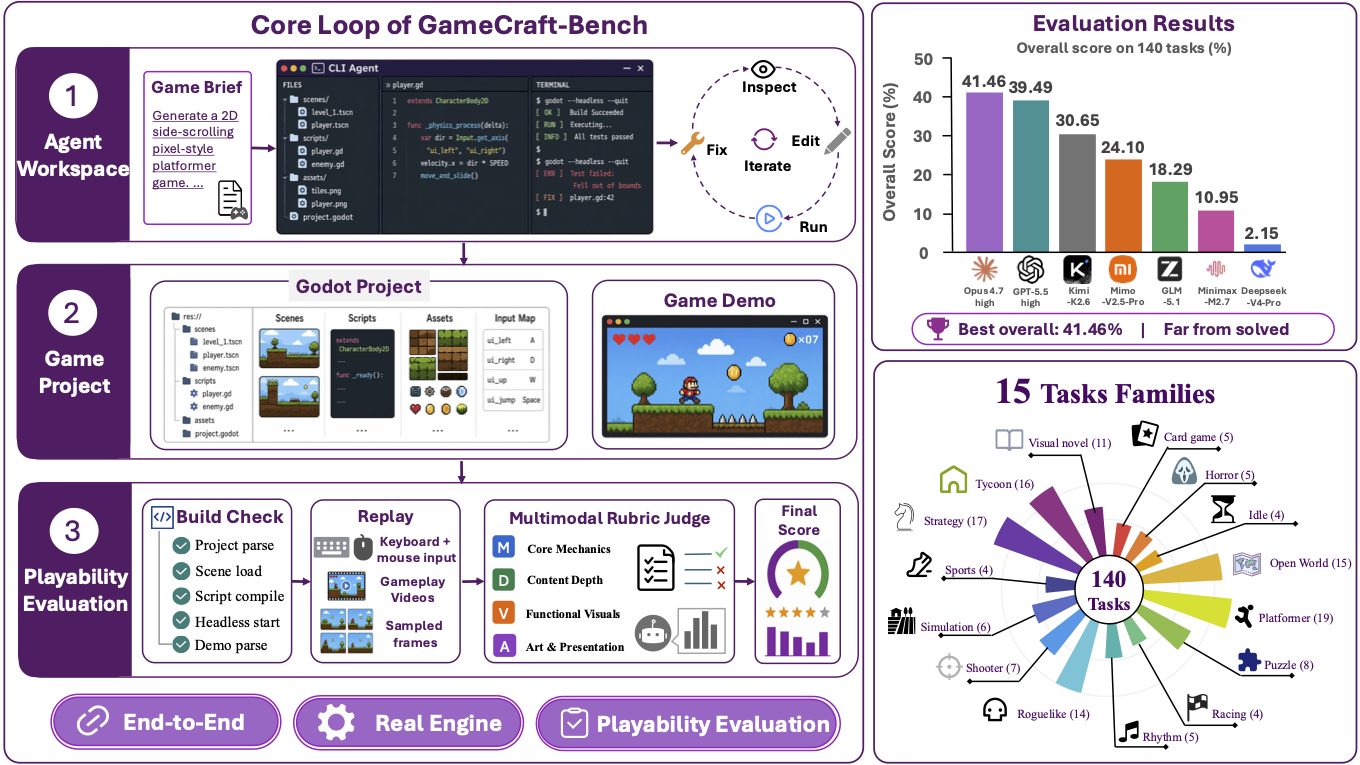
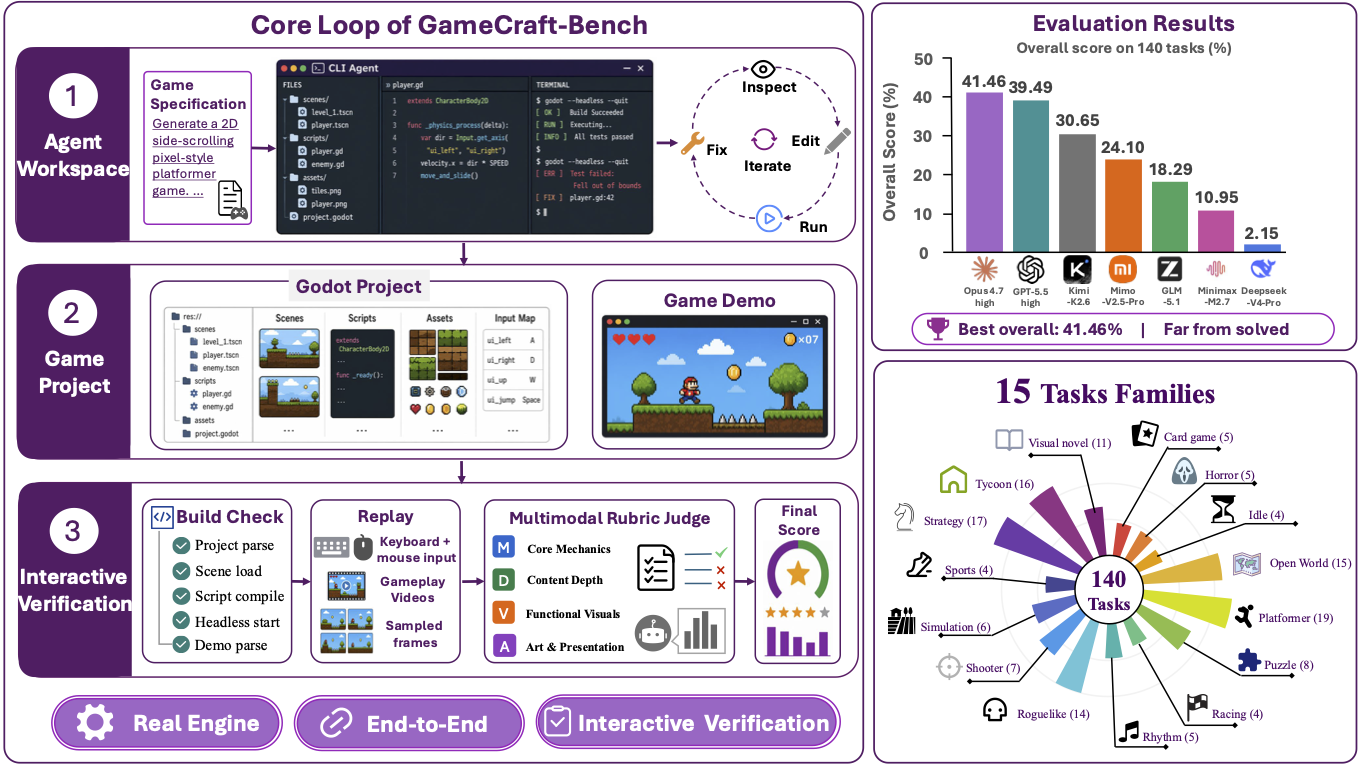
update

Changed region(s): [[0.0309, 0.902, 0.6176, 0.9922], [0.0926, 0.0902, 0.1853, 0.2706], [0.0, 0.7216, 0.0926, 0.8118]]

diff --git a/index.html b/index.html
@@ -107,11 +107,12 @@
       <div class="container narrow">
         <h1>GameCraft-Bench</h1>
         <p>
-          GameCraft-Bench asks a coding agent to turn a product-style game brief
-          into a complete, playable Godot 4 project. Each submission includes a
-          game project and replayable input traces. The verifier launches the
-          game, replays the traces, records gameplay videos, samples visual
-          evidence, and scores observed play with a hidden task rubric.
+          GameCraft-Bench evaluates whether coding agents can transform
+          natural-language game specifications into complete, playable Godot
+          projects. Each submission includes a game artifact and replayable
+          interaction traces; the verifier launches the game, replays the
+          traces, records gameplay evidence, and scores observed play with a
+          hidden task rubric.
         </p>
         <div class="stats" aria-label="Benchmark statistics">
           <div><strong>140</strong><span>Tasks</span></div>
@@ -126,33 +127,32 @@
       <div class="container narrow">
         <h2>Abstract</h2>
         <p>
-          Game development is an important application for coding agents, where
-          a user specifies an interactive experience and the agent must turn
-          that intent into a working game artifact. This setting is challenging
-          because game development happens inside an engine, where scripts,
-          scene graphs, assets, input maps, rendering, visual feedback, and
-          runtime configuration must work together as an executable interactive
-          system, rather than merely producing compilable code.
+          Game generation is an emerging application of coding agents,
+          requiring models to transform natural-language specifications into
+          playable interactive systems. Unlike traditional coding tasks, game
+          generation takes place within a game engine, where scripts, scenes,
+          assets, rendering, and runtime interactions must jointly produce
+          coherent gameplay.
         </p>
         <p>
           Evaluating this setting requires three desiderata:
-          <strong>Desideratum I: Environment Fidelity</strong>,
-          <strong>Desideratum II: Artifact Integrity</strong>, and
-          <strong>Desideratum III: Interaction Validity</strong>. Existing
-          game-generation benchmarks cover parts of this space but do not
-          jointly satisfy all three. GameCraft-Bench is an end-to-end benchmark
-          for 2D game development in Godot, containing 140 tasks across 15 game
-          families.
+          <strong>Desideratum I: Engine Grounding</strong>,
+          <strong>Desideratum II: Artifact Completeness</strong>, and
+          <strong>Desideratum III: Interactive Verification</strong>. Existing
+          game-generation benchmarks cover parts of this contract, but leave
+          open whether agents can carry user intent all the way to a complete
+          engine-native game artifact whose behavior is judged through
+          interaction.
         </p>
         <p>
-          For each task, an agent receives a game brief, shared asset libraries,
-          and a fixed workspace, then must produce a complete Godot project and
-          replayable demonstration traces. The verifier launches the project,
-          replays the traces, records gameplay evidence, and scores observed
-          play across core mechanics, content depth, functional visuals, and art
-          and presentation. Evaluation of frontier coding agents shows that
-          end-to-end game development remains highly challenging: even the
-          strongest agent scores only 41.46%, and most agents score below 40.00%.
+          GameCraft-Bench instantiates this framework with 140 Godot tasks
+          across 15 game families. For each task, an agent receives a game
+          specification and must produce a complete Godot project plus
+          replayable demonstration traces. The verifier replays the traces and
+          scores observed play across core mechanics, content depth, functional
+          visuals, and art and presentation. Frontier coding agents remain far
+          from reliable end-to-end game generation: the strongest configuration
+          reaches only 41.46%, and most agents score below 40%.
         </p>
       </div>
     </section>
@@ -162,9 +162,10 @@
         <figure class="paper-figure">
           <img src="static/figures/overview.png" alt="Overview of GameCraft-Bench">
           <figcaption>
-            Overview of GameCraft-Bench: agents turn game briefs into Godot
-            projects, submit replayable traces, and are evaluated through
-            recorded gameplay evidence in a real engine.
+            Overview of GameCraft-Bench: agents turn natural-language game
+            specifications into complete Godot projects, the verifier replays
+            submitted interaction traces, and rubric-guided judging scores
+            gameplay evidence.
           </figcaption>
         </figure>
       </div>
@@ -175,25 +176,25 @@
         <div class="section-heading">
           <h2>Benchmark Design</h2>
           <p>
-            GameCraft-Bench is organized around three evaluation desiderata,
-            compared against prior benchmarks, and instantiated as a 140-task
-            Godot suite spanning 15 game families.
+            GameCraft-Bench is organized around three desiderata for end-to-end
+            game generation, compared against prior benchmarks, and
+            instantiated as a 140-task Godot suite spanning 15 game families.
           </p>
         </div>
 
         <h3 class="subsection-title">Desiderata</h3>
         <div class="property-grid">
           <article>
-            <h3>Environment Fidelity</h3>
-            <p>The benchmark should preserve the constraints of real game-engine development.</p>
+            <h3>Engine Grounding</h3>
+            <p>Games should be evaluated within a concrete game generation and runtime environment.</p>
           </article>
           <article>
-            <h3>Artifact Integrity</h3>
-            <p>The benchmark should evaluate complete launchable game artifacts rather than isolated components.</p>
+            <h3>Artifact Completeness</h3>
+            <p>Games should be evaluated as complete launchable artifacts rather than isolated components.</p>
           </article>
           <article>
-            <h3>Interaction Validity</h3>
-            <p>The benchmark should judge games through interaction rather than static inspection.</p>
+            <h3>Interactive Verification</h3>
+            <p>Games should be judged by observed behavior when they are played interactively.</p>
           </article>
         </div>
 
@@ -203,37 +204,48 @@
             <thead>
               <tr>
                 <th>Benchmark</th>
-                <th>Environment<br>Fidelity</th>
-                <th>Artifact<br>Integrity</th>
-                <th>Interaction<br>Validity</th>
+                <th>Engine<br>Grounding</th>
+                <th>Artifact<br>Completeness</th>
+                <th>Interactive<br>Verification</th>
               </tr>
             </thead>
             <tbody>
               <tr>
                 <td>GameDevBench</td>
-                <td class="yes">&check;</td>
+                <td>Godot</td>
                 <td class="no">&times;</td>
                 <td class="no">&times;</td>
               </tr>
               <tr>
                 <td>OpenGame-Bench</td>
-                <td class="no">&times;</td>
+                <td>Web</td>
                 <td class="yes">&check;</td>
                 <td class="no">&times;</td>
               </tr>
+              <tr>
+                <td>WebGameBench*</td>
+                <td>Web</td>
+                <td class="yes">&check;</td>
+                <td class="yes">&check;</td>
+              </tr>
               <tr class="ours">
                 <td>GameCraft-Bench</td>
-                <td class="yes">&check;</td>
+                <td><strong>Godot</strong></td>
                 <td class="yes">&check;</td>
                 <td class="yes">&check;</td>
               </tr>
             </tbody>
           </table>
         </div>
+        <p class="design-copy">
+          *WebGameBench is concurrent with our work: it evaluates delivered Web
+          games, while GameCraft-Bench targets complete projects in a dedicated
+          game engine.
+        </p>
 
         <h3 class="subsection-title">Task Suite</h3>
         <p class="design-copy">
-          The benchmark spans diverse 2D game-construction demands, from
+          The benchmark spans diverse 2D game-generation demands, from
           continuous control and collision to rule systems, progression,
           exploration, and presentation-heavy interaction. Counts exclude the
           example task.
@@ -265,14 +277,16 @@
           <article>
             <h2>Evaluation Protocol</h2>
             <p>
-              GameCraft-Bench operationalizes interaction validity by turning
-              open-ended game submissions into standardized gameplay evidence
-              and rubric scores.
+              GameCraft-Bench operationalizes Interactive Verification by
+              turning open-ended game submissions into replayed gameplay
+              evidence and rubric-guided multimodal judging.
             </p>
             <ol class="pipeline">
-              <li>Separate construction intent from measurement targets.</li>
-              <li>Standardize behavioral evidence through replay.</li>
-              <li>Score evidence with rubric categories and item semantics.</li>
+              <li>Package task, environment, and hidden rubric.</li>
+              <li>Collect project and replayable traces.</li>
+              <li>Gate scoring on launchability.</li>
+              <li>Replay traces into gameplay evidence.</li>
+              <li>Score evidence with rubric item semantics.</li>
             </ol>
           </article>
           <div class="rubric-grid">
@@ -297,10 +311,10 @@
         <figure class="paper-figure">
           <img src="static/figures/verify_pipeline.png" alt="Playability verification pipeline">
           <figcaption>
-            Interaction-validity pipeline: the verifier checks launchability,
-            replays submitted traces, records gameplay videos, samples frames,
-            scores each demo with the hidden rubric, and aggregates category
-            scores into the final score.
+            End-to-end evaluation pipeline: the verifier checks launchability,
+            replays submitted traces into gameplay videos and sampled frames,
+            scores the resulting evidence with a hidden rubric, and aggregates
+            category scores into the final score.
           </figcaption>
         </figure>
       </div>
@@ -407,7 +421,7 @@
         <p class="note">
           The strongest configuration reaches only 41.46%, indicating that
           even frontier coding agents remain far from reliable end-to-end game
-          development in a real engine.
+          generation in a real engine.
         </p>
       </div>
     </section>
@@ -420,7 +434,7 @@
         <div class="finding-grid">
           <article>
             <h3>Recognizable mechanics are easier than complete games.</h3>
-            <p>Agents more often implement recognizable mechanics than complete games: content depth, visual readability, and presentation remain the main bottlenecks.</p>
+            <p>Agents more often produce recognizable local mechanics, but still fail to assemble them into complete, coherent interactive systems.</p>
           </article>
           <article>
             <h3>Judge results are stable but not bias-free.</h3>
@@ -435,7 +449,7 @@
             <p>Execution effort alone does not predict playable quality; agents must close the full build--replay--evaluation loop.</p>
           </article>
           <article>
-            <h3>Game-development ability is not monolithic.</h3>
+            <h3>Game generation ability is not monolithic.</h3>
             <p>Mechanics, content, visual feedback, and presentation are only partially coupled across generated games.</p>
           </article>
         </div>
@@ -1274,6 +1288,16 @@
       <div class="container narrow">
         <h2>Acknowledgement</h2>
         <p>
+          This work was supported by Major Frontier Exploration Program (Grant
+          No. C10120250085) from the Shenzhen Medical Academy of Research and
+          Translation (SMART), Shenzhen Medical Research Fund (B2503005), NSFC
+          grant 72495131, the 1+1+1 CUHK-CUHK(SZ)-GDSTC Joint Collaboration
+          Fund, Guangdong Provincial Key Laboratory of Mathematical Foundations
+          for Artificial Intelligence (2023B1212010001), and the International
+          Science and Technology Cooperation Center, Ministry of Science and
+          Technology of China (under grant 2024YFE0203000).
+        </p>
+        <p>
           This website is adapted from
           <a href="https://github.com/nerfies/nerfies.github.io">Nerfies</a>,
           licensed under a
@@ -1286,7 +1310,7 @@
   </main>
 
   <footer>
-    <p><img class="visitor-badge" src="https://visitor-badge.laobi.icu/badge?page_id=https%3A%2F%2Ftongxuluo.github.io%2Fgamecraft-bench-website%2F&left_color=%23595959&right_color=%234a1cca" alt="visitor badge"/> GameCraft-Bench · End-to-end game-development evaluation for coding agents.</p>
+    <p><img class="visitor-badge" src="https://visitor-badge.laobi.icu/badge?page_id=https%3A%2F%2Ftongxuluo.github.io%2Fgamecraft-bench-website%2F&left_color=%23595959&right_color=%234a1cca" alt="visitor badge"/> GameCraft-Bench · End-to-end game-generation evaluation for coding agents.</p>
   </footer>
 
   <button id="back-to-top" aria-label="Back to top" title="Back to top">
